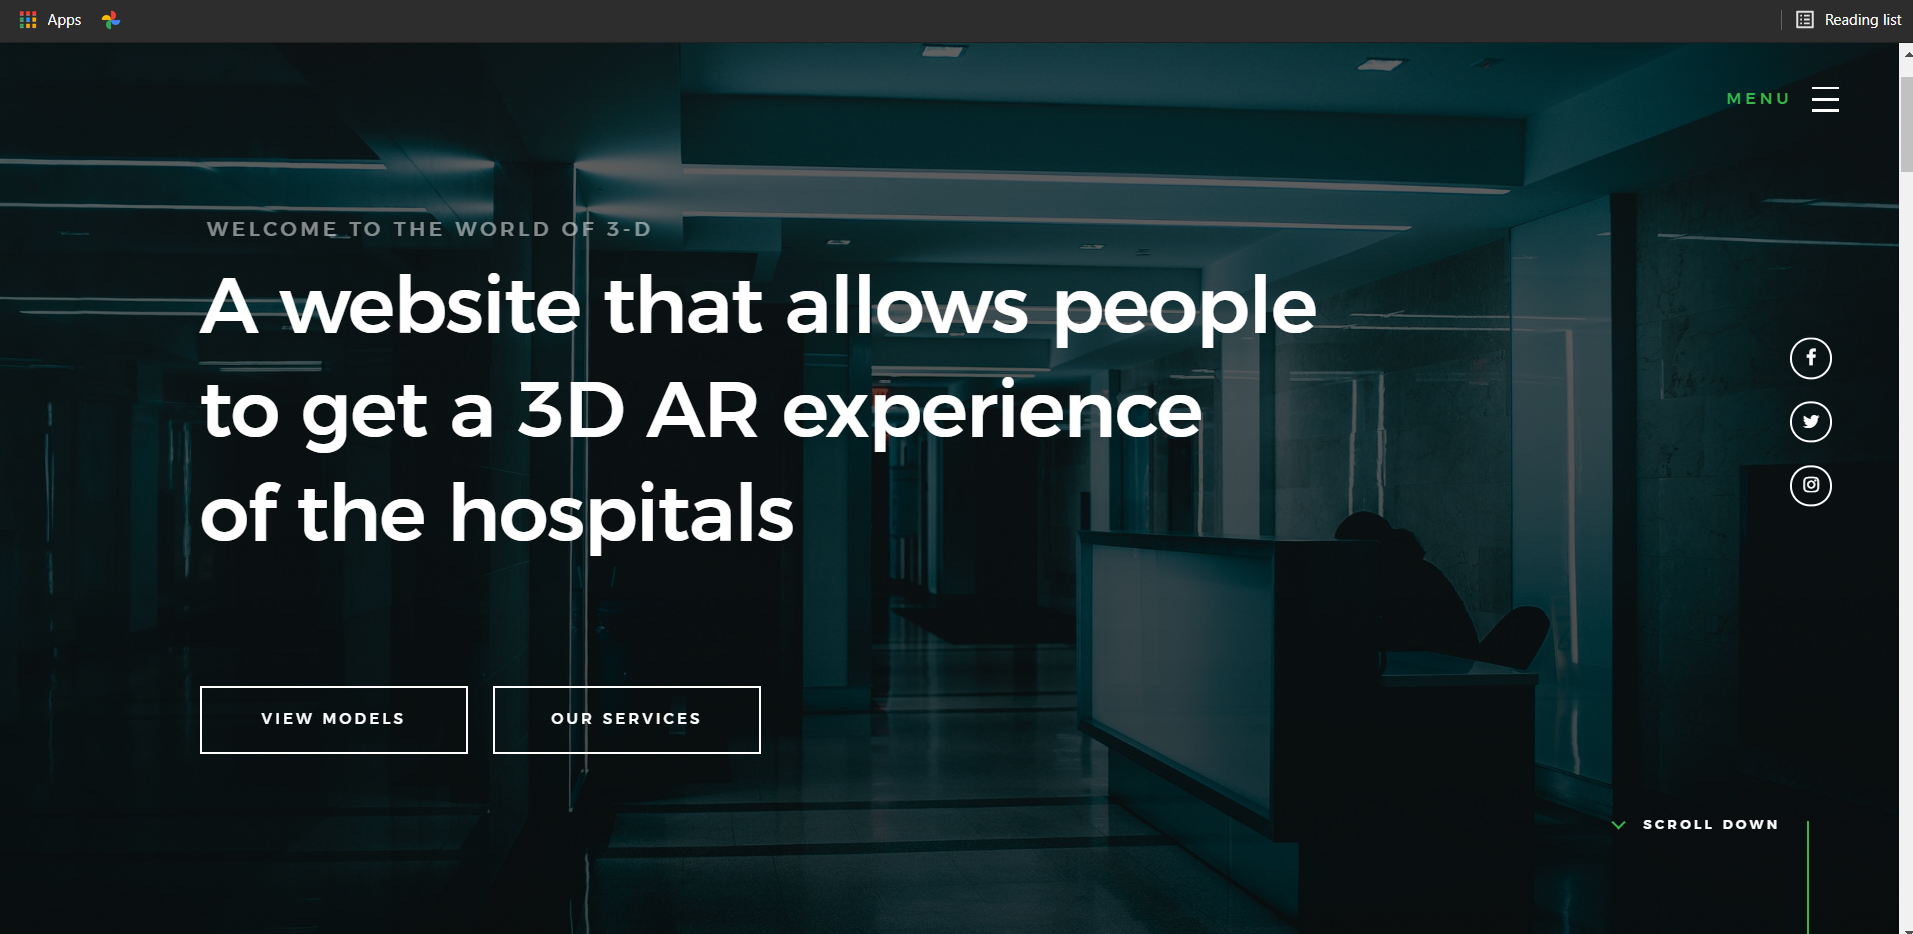
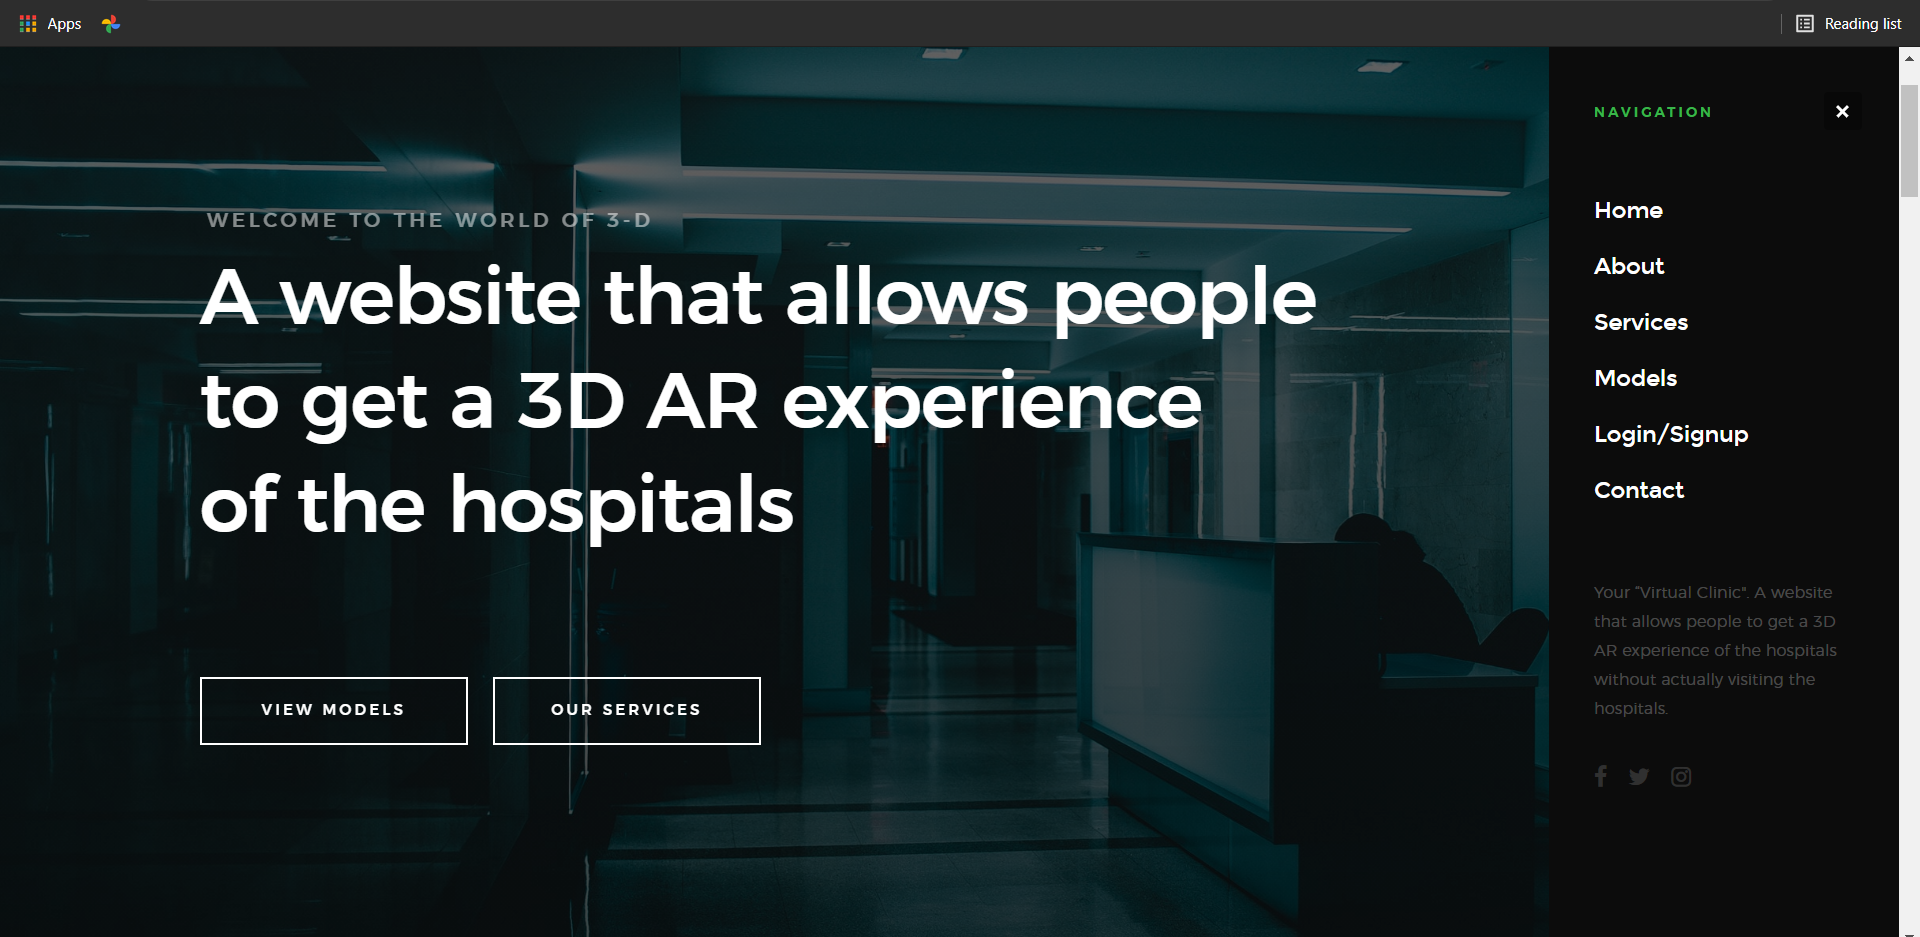
readme

diff --git a/README.md b/README.md
@@ -14,10 +14,15 @@ Our website links users to everything they need to take care of themselves and t
 
 ![Home](/images/readme/2.png)
 
+### Models
+![Home](/images/readme/5.png)
+
 ### Contact Us
 
 ![Home](/images/readme/3.png)
 
+### Login/Signup
+![Home](/images/readme/6.png)
 
 
 ## Features
